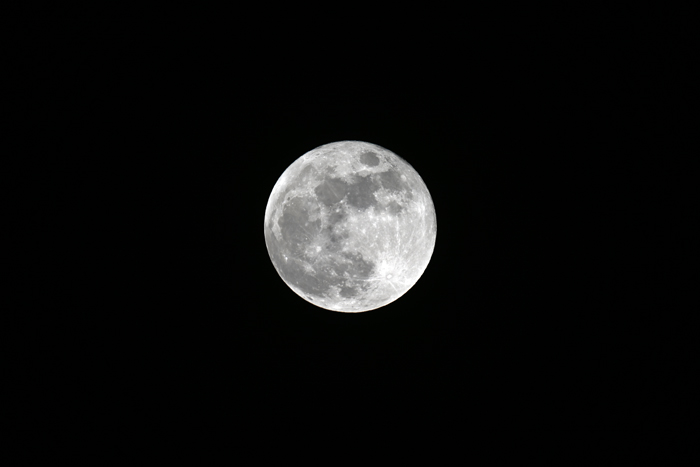
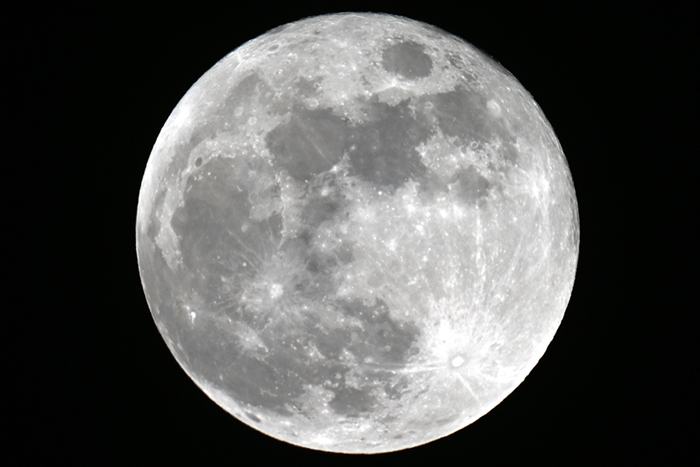
gallery

diff --git a/dist/index.html b/dist/index.html
@@ -6,7 +6,7 @@
     <meta name="viewport" content="width=device-width, initial-scale=1.0" />
     <title>foto247
     </title>
-    <script type="module" crossorigin src="/assets/index-CSUwe4UP.js"></script>
+    <script type="module" crossorigin src="/assets/index-FgnAOAU-.js"></script>
     <link rel="stylesheet" crossorigin href="/assets/index-DeKQThxB.css">
   </head>
   <body>
